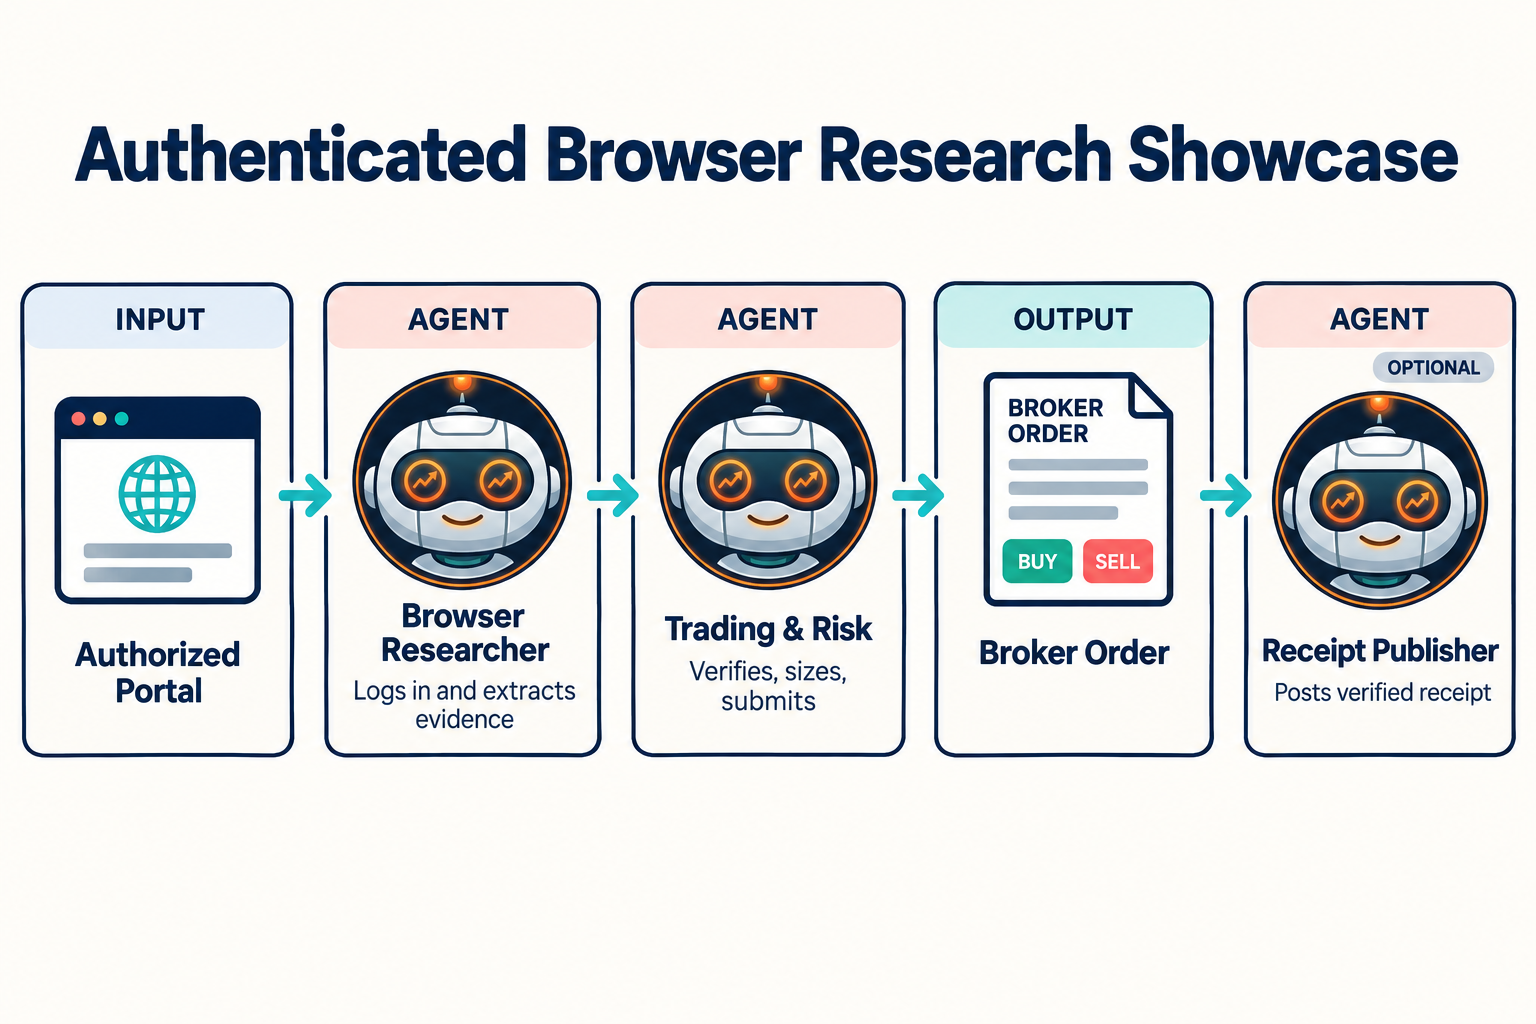
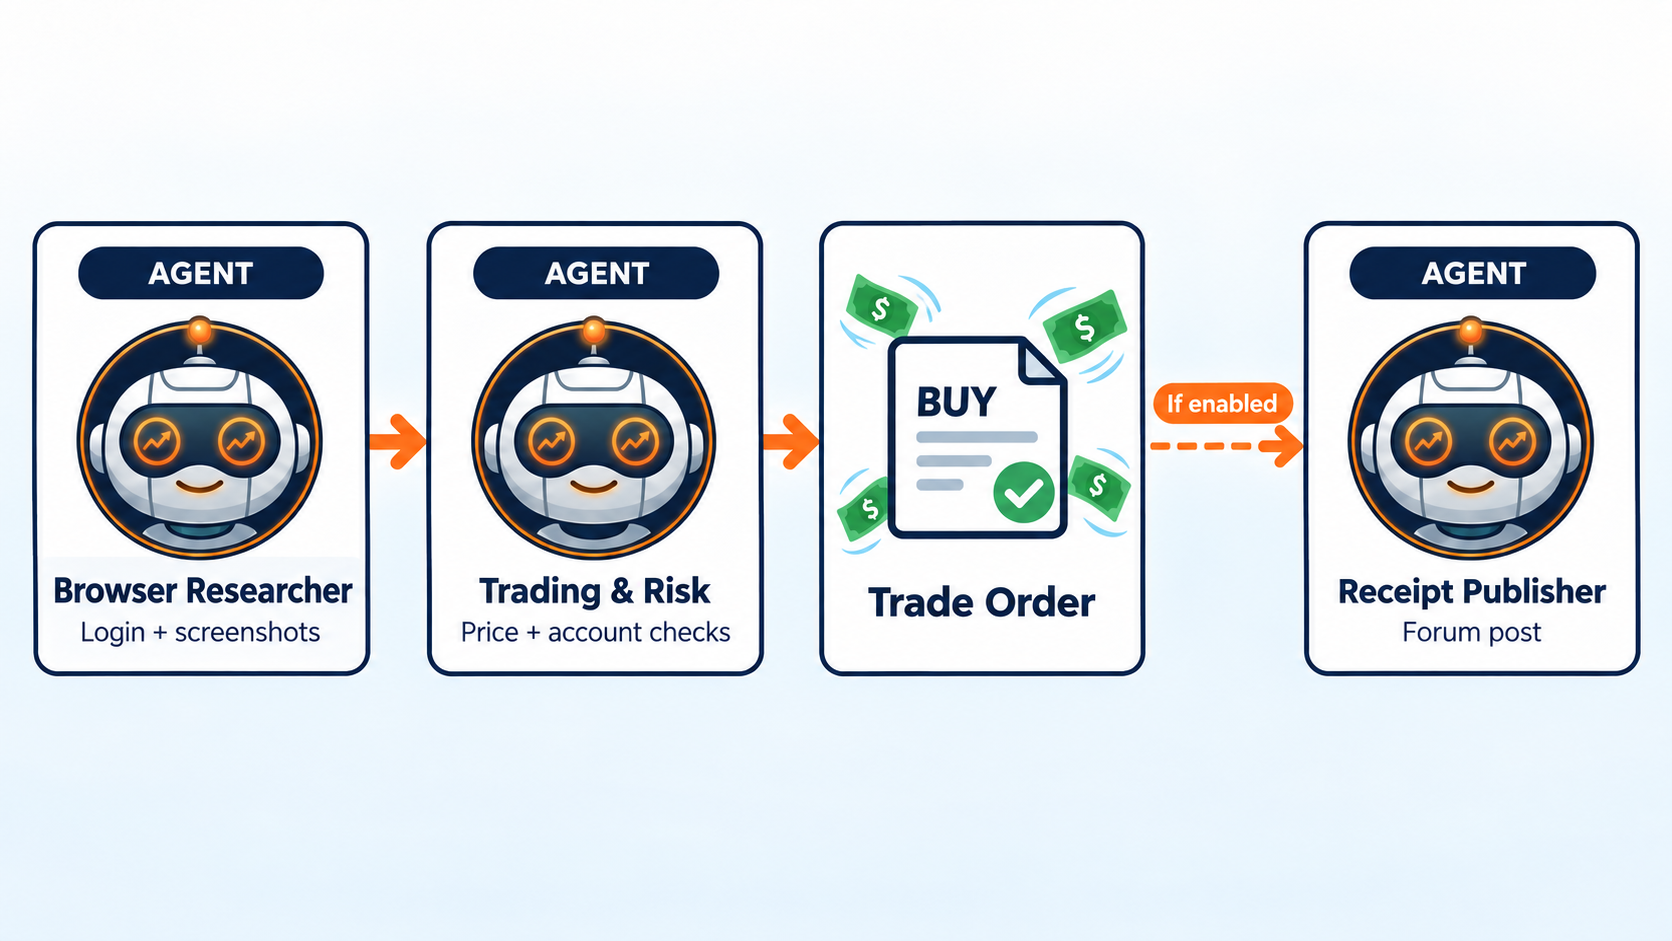
docs: refresh agent workflow artwork and version-branch guidance

Changed region(s): [[0.0, 0.2157, 1.0, 0.7396], [0.0312, 0.1233, 0.9688, 0.1849]]

diff --git a/tests/test_ai_two_agent_strategy_examples.py b/tests/test_ai_two_agent_strategy_examples.py
@@ -79,7 +79,7 @@ def test_documentation_and_artwork_contracts_describe_the_real_topology():
         assert "risk" in page
         assert "creates one" not in page
 
-    receipt = (repo / "docs/research/2026-09-20_sunburst-workflow-artwork-receipt.md").read_text(
+    receipt = (repo / "docs/research/2026-09-21_sunburst-workflow-artwork-receipt.md").read_text(
         encoding="utf-8"
     )
     assert "-> `LumiBot`" not in receipt
@@ -89,46 +89,36 @@ def test_documentation_and_artwork_contracts_describe_the_real_topology():
     assert "`Long-Term Value Team`" not in receipt
 
     two_agent_artwork = {
-        "ai-opening-range-breakout.png": ("AI Opening Range Breakout", "ORB Researcher"),
-        "ai-vwap.png": ("AI VWAP Strategy", "VWAP Researcher"),
-        "ai-credit-spread.png": ("AI Credit Spread", "Spread Researcher"),
-        "ai-iron-condor.png": ("AI Iron Condor", "Condor Researcher"),
-        "ai-congress-disclosures.png": (
-            "Congressional Disclosure Agent",
-            "Disclosure Researcher",
-        ),
-        "ai-sec-insider-filings.png": (
-            "SEC Form 4 Insider-Filing Agent",
-            "Form 4 Researcher",
-        ),
-        "ai-spx-zero-dte-bear-call-team.png": (
-            "Two-Agent SPX 0 DTE Bear Call Experiment",
-            "SPX Researcher",
-        ),
+        "ai-opening-range-breakout.png": "Range Researcher",
+        "ai-vwap.png": "VWAP Researcher",
+        "ai-credit-spread.png": "Spread Researcher",
+        "ai-iron-condor.png": "Condor Researcher",
+        "ai-congress-disclosures.png": "Disclosure Researcher",
+        "ai-sec-insider-filings.png": "Form 4 Researcher",
+        "ai-spx-zero-dte-bear-call-team.png": "SPX Researcher",
     }
-    for asset, exact_labels in two_agent_artwork.items():
+    for asset, researcher in two_agent_artwork.items():
         row = next(line for line in receipt.splitlines() if f"`{asset}`" in line)
-        assert all(label in row for label in exact_labels)
+        assert researcher in row
         assert "AGENT" in row
         assert "Trading & Risk" in row
-        assert "OUTPUT `Broker Order" in row
+        assert "Trade Order" in row
+        assert "INPUT" not in row and "OUTPUT" not in row
 
     ray_row = next(line for line in receipt.splitlines() if "`ray-dalio-idea-meritocracy.png`" in line)
     for label in (
-        "Ray Dalio Idea Meritocracy AI Trading Team",
-        "Growth Agent",
-        "Inflation Agent",
-        "Debt & Liquidity Agent",
-        "Disagreement Agent",
-        "Trader & Risk",
-        "OUTPUT `Broker Orders`",
+        "Growth",
+        "Inflation",
+        "Debt & Liquidity",
+        "Disagreement",
+        "Trading & Risk",
+        "Trade Order",
     ):
         assert label in ray_row
-    assert "parallel" in ray_row.lower()
+    assert "branches" in ray_row.lower()
 
     citadel_row = next(line for line in receipt.splitlines() if "`citadel-sector-pods.png`" in line)
     for label in (
-        "Citadel Sector Pods AI Trading Team",
         "Technology & Comms",
         "Financials",
         "Healthcare",
@@ -136,15 +126,15 @@ def test_documentation_and_artwork_contracts_describe_the_real_topology():
         "Consumer",
         "Risk Manager",
         "Portfolio Manager",
-        "OUTPUT `Broker Orders`",
+        "Trade Order",
     ):
         assert label in citadel_row
-    assert "parallel" in citadel_row.lower()
+    assert "branches" in citadel_row.lower()
 
 
 def test_artwork_receipt_hashes_match_committed_assets():
     repo = Path(__file__).resolve().parents[1]
-    receipt = (repo / "docs/research/2026-09-20_sunburst-workflow-artwork-receipt.md").read_text(
+    receipt = (repo / "docs/research/2026-09-21_sunburst-workflow-artwork-receipt.md").read_text(
         encoding="utf-8"
     )
     rows = [line for line in receipt.splitlines() if line.startswith("| `") and ".png` |" in line]

diff --git a/docs/research/2026-09-21_sunburst-workflow-artwork-receipt.md b/docs/research/2026-09-21_sunburst-workflow-artwork-receipt.md
@@ -1,0 +1,26 @@
+# Sunburst workflow artwork refresh
+
+Date: 2026-09-21
+
+All fourteen assets are independent, unmodified approved Image Generator outputs (GPT Image 2.5 Sunburst). Each was inspected visually at full size and copied into the documentation path without cropping, retouching, overlays, or compositing. The previous 2026-09-20 receipt remains as historical provenance for the superseded images.
+
+Design contract: no large image title, no source/output cards, mascot only on agents, compact tool/evidence labels, and a separate non-agent trade ticket. Flying money depicts exchange activity, not a claim of profit. Ray Dalio and Citadel show distinct research branches converging; this is a relationship diagram, not a claim of concurrent Python execution. The optional browser receipt publisher runs only when configured. Each individual generation used the same prior Bull/Bear image as a style reference and the official mascot close-up as a character reference.
+
+| Asset | Audited visible flow | Raw generator output | SHA-256 |
+|---|---|---|---|
[14 lines of base64/hex data omitted]
+
+The file hashes are checked by `tests/test_ai_two_agent_strategy_examples.py`. Visual correctness was checked separately; the hash test alone cannot detect a wrong arrow or label.

diff --git a/AGENTS.md b/AGENTS.md
@@ -55,9 +55,9 @@ These rules are mandatory whenever you work on ThetaData integrations.
 
 - For any generated or AI-edited image, infographic, diagram, marketing visual, README visual, documentation visual, or repo asset image, use the approved Image Generator only.
 - `Nano Banana` is a compatibility phrase for the approved Image Generator. It does not select Google or Gemini unless Rob explicitly insists on that provider after rejecting the approved default result.
-- The Image Generator controls provider, model, resolution, and quality. Callers may provide only the prompt, purpose, aspect ratio, approved reference images, and an explicit Rob-requested Medium-quality exception. Never request Pro, High, Auto, an arbitrary resolution, or another model.
+- The approved Image Generator uses server-controlled GPT Image 2.5 Sunburst for final documentation/product artwork. Follow the current parent-workspace generator policy for supported quality, purpose, aspect ratio, and references; never select another provider/model or post-process an output without Rob's explicit current-turn exception.
 - Never use local SVG/HTML/canvas placeholders, Python drawing scripts, Mermaid screenshots, manually assembled box diagrams, or other fallback pipelines for generated documentation/product images.
-- Do not generate robot or mascot variations for LumiBot documentation or README illustrations. Repeated generated Spot variants were explicitly rejected. Use relevant character-free illustrations or approved creator photography. The official circular logo may appear as a supplied brand emblem when explicitly requested; it is not permission to invent new bodies, poses or faces. Never reuse a rejected output as a reference or describe it as approved.
+- For agent workflow diagrams, use the approved official LumiBot head as a reference for actual agent cards only. Do not invent a new body, pose, or face, and never use the head to represent a broker order or another non-agent step. Other illustration types can remain character-free. Never reuse a rejected output as a reference or describe it as approved.
 - Every education promotion featuring Rob must include the legible attribution "Rob Grzesik, creator of LumiBot" and a relevant challenge or bootcamp CTA. Preserve tracked clickable image links.
 - Keep generated illustration code and invented trading results out of instructional examples. Runnable code and actual result evidence belong in the page itself.
 - Every generated image must be visually inspected before it is shown to Rob, committed, or used in the repo/docs/README. Open the actual output image, inspect the text, arrows, mascot, spacing, and overall visual hierarchy, and reject outputs with broken/missing text, awkward arrows, cluttered layouts, inaccurate product claims, off-brand mascot variants, or anything that looks like a placeholder.
@@ -112,6 +112,9 @@ This repo is frequently edited by **multiple AI sessions**. To avoid lost work:
   Temporary worktrees outside this folder are allowed only for isolated review
   of unusually large or risky external PRs, and must not become the active
   release workspace.
+  The parent workspace's BotSpot `main`-only development rule does not apply to
+  LumiBot. This repository has no `main` branch; never create one or move normal
+  LumiBot work to `dev` to satisfy that rule.
 
 - **Release workflow (STRICT):**
   - **Implementation authority is not release authority.** Normal coding agents
